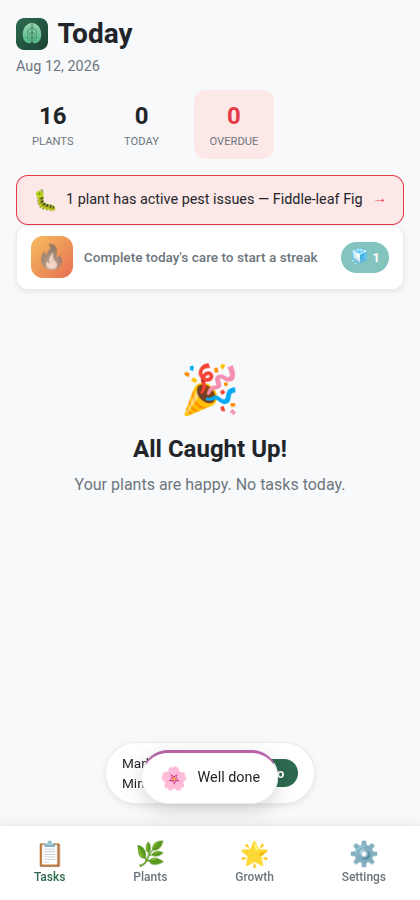
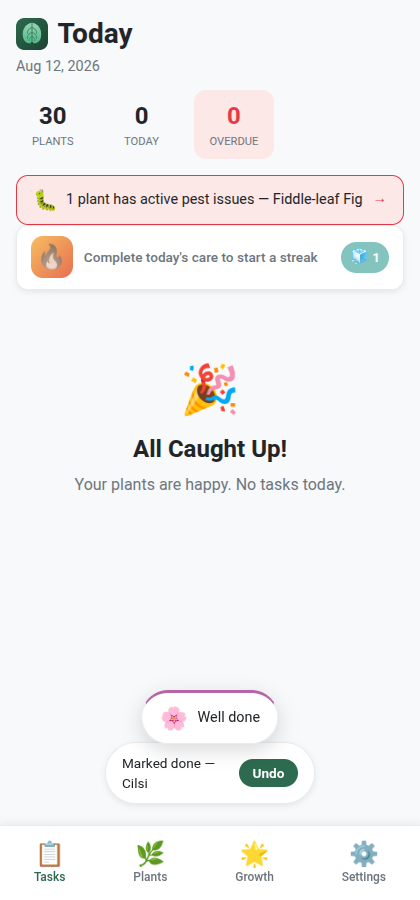
fix: stack celebration toast above undo toast instead of overlapping
Both toasts anchored at bottom: 96px with identical positioning, so a lucky
(30%) celebration roll on top of an always-shown undo toast rendered the
two illegibly stacked on the same pixels.

Celebration.svelte now takes an optional stackAbove prop; Dashboard
passes stackAbove={pendingUndo !== null}, and a .stack-above CSS variant
bumps the anchor to bottom: 156px so the celebration renders cleanly
above the undo toast.

Also:
- Add toast-stacking.test.ts asserting the CSS invariant (stacked
  bottom must clear the undo anchor by ≥40px) and the Dashboard wiring
- Add .playwright-mcp/ to .gitignore (trace/log scratch, previously
  snuck into a commit)
- Replace docs/screenshots/celebration-toast+undo.png with capture of
  the now-correctly-stacked toasts

Changed region(s): [[0.3095, 0.7467, 0.681, 0.9022], [0.0929, 0.0933, 0.1548, 0.1556]]

diff --git a/src/lib/engagement/__tests__/toast-stacking.test.ts b/src/lib/engagement/__tests__/toast-stacking.test.ts
@@ -1,0 +1,47 @@
+import { describe, it, expect } from 'vitest'
+import { readFileSync } from 'node:fs'
+import { fileURLToPath } from 'node:url'
+import { dirname, resolve } from 'node:path'
+
+const here = dirname(fileURLToPath(import.meta.url))
+const celebrationSrc = readFileSync(
+  resolve(here, '../../components/Celebration.svelte'),
+  'utf-8',
+)
+const dashboardSrc = readFileSync(
+  resolve(here, '../../../routes/Dashboard.svelte'),
+  'utf-8',
+)
+
+function extractBottomPx(css: string, selector: string): number | null {
+  // Match e.g. ".celebration.stack-above { ... bottom: 156px; ... }"
+  const escaped = selector.replace(/\./g, '\\.')
+  const re = new RegExp(`${escaped.replace(/ /g, '\\s*')}\\s*\\{[^}]*bottom:\\s*(\\d+)px`, 's')
+  const m = css.match(re)
+  return m ? parseInt(m[1], 10) : null
+}
+
+describe('toast stacking (Celebration vs Dashboard undo toast)', () => {
+  it('Celebration exposes a stackAbove prop and a .stack-above CSS variant', () => {
+    expect(celebrationSrc).toMatch(/stackAbove\?: boolean/)
+    expect(celebrationSrc).toMatch(/class:stack-above=\{stackAbove\}/)
+    expect(celebrationSrc).toMatch(/\.celebration\.stack-above/)
+  })
+
+  it('.celebration.stack-above renders strictly above Dashboard .undo-toast', () => {
+    const basePx = extractBottomPx(celebrationSrc, '.celebration')
+    const stackedPx = extractBottomPx(celebrationSrc, '.celebration.stack-above')
+    const undoPx = extractBottomPx(dashboardSrc, '.undo-toast')
+    expect(basePx).not.toBeNull()
+    expect(stackedPx).not.toBeNull()
+    expect(undoPx).not.toBeNull()
+    // Invariant: stacked celebration clears the undo toast entirely.
+    // (Undo toast height in practice is 48-56px; require at least 40px of clearance.)
+    expect(stackedPx!).toBeGreaterThan(undoPx! + 40)
+    expect(basePx).toBe(undoPx) // base celebration == undo anchor when alone
+  })
+
+  it('Dashboard passes stackAbove={pendingUndo !== null} to Celebration', () => {
+    expect(dashboardSrc).toMatch(/stackAbove=\{pendingUndo !== null\}/)
+  })
+})

diff --git a/src/lib/components/Celebration.svelte b/src/lib/components/Celebration.svelte
@@ -3,7 +3,17 @@
   import type { Celebration } from '../engagement/celebrations'
   import { prefersReducedMotion } from '../engagement/celebrations'
 
-  let { celebration, onClose }: { celebration: Celebration | null; onClose: () => void } = $props()
+  let {
+    celebration,
+    onClose,
+    stackAbove,
+  }: {
+    celebration: Celebration | null
+    onClose: () => void
+    // When true (e.g. an undo toast is also visible), render the celebration
+    // higher on the y-axis so both toasts remain legible instead of overlapping.
+    stackAbove?: boolean
+  } = $props()
 
   const SHOW_MS = 3200
   let visible = $state(false)
@@ -46,6 +56,7 @@
   <button
     class="celebration"
     class:no-motion={reducedMotion}
+    class:stack-above={stackAbove}
     onclick={dismiss}
     aria-live="polite"
     aria-label="Task complete"
@@ -84,6 +95,12 @@
     font-size: 0.9rem;
     color: var(--color-text);
     animation: pop 0.25s ease-out;
+  }
+
+  /* Render above Dashboard's .undo-toast (bottom: 96px; height ~48-56px)
+     so both toasts remain legible when a completion rolls a celebration. */
+  .celebration.stack-above {
+    bottom: 156px;
   }
 
   .celebration.no-motion {

diff --git a/src/routes/Dashboard.svelte b/src/routes/Dashboard.svelte
@@ -203,7 +203,11 @@
     {/if}
   {/if}
 
-  <Celebration celebration={activeCelebration} onClose={() => (activeCelebration = null)} />
+  <Celebration
+    celebration={activeCelebration}
+    onClose={() => (activeCelebration = null)}
+    stackAbove={pendingUndo !== null}
+  />
 
   {#if pendingUndo}
     <div class="undo-toast" role="status">
